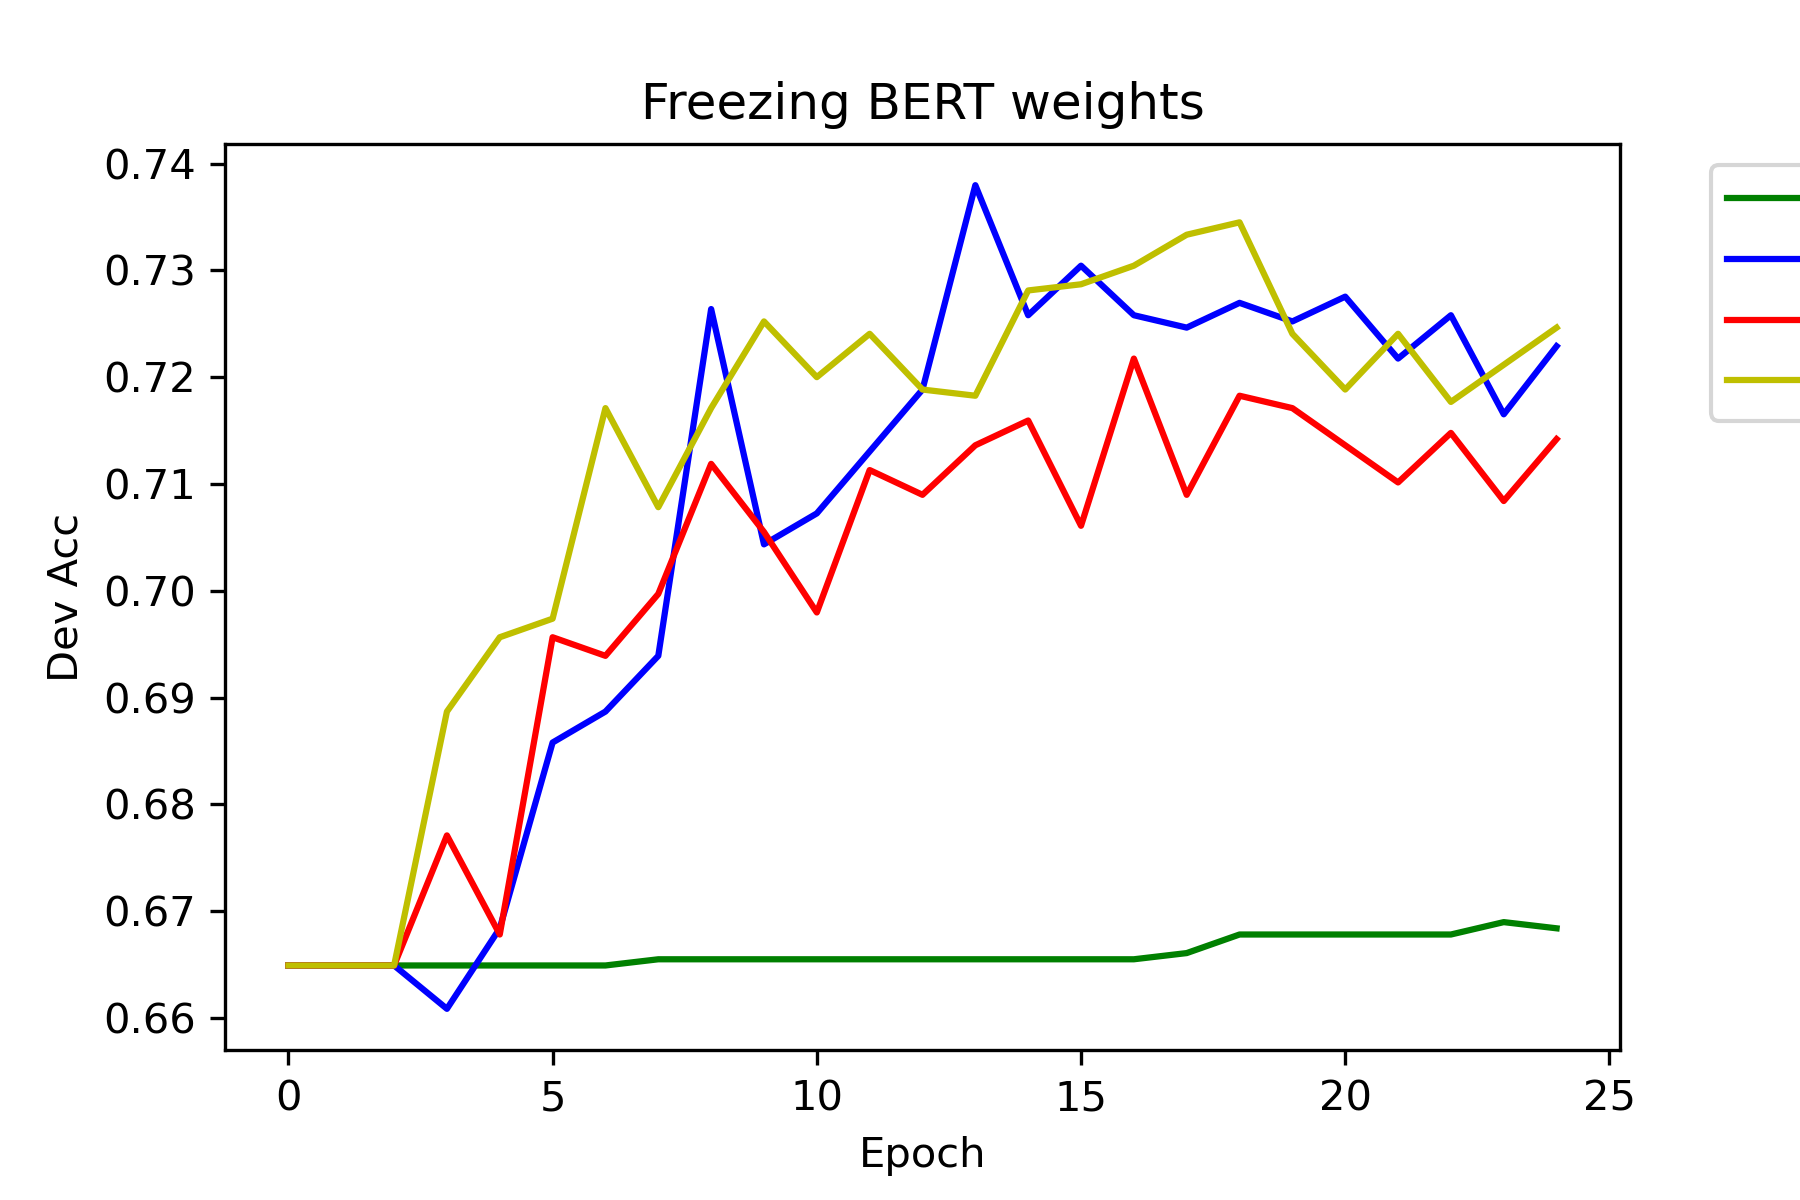
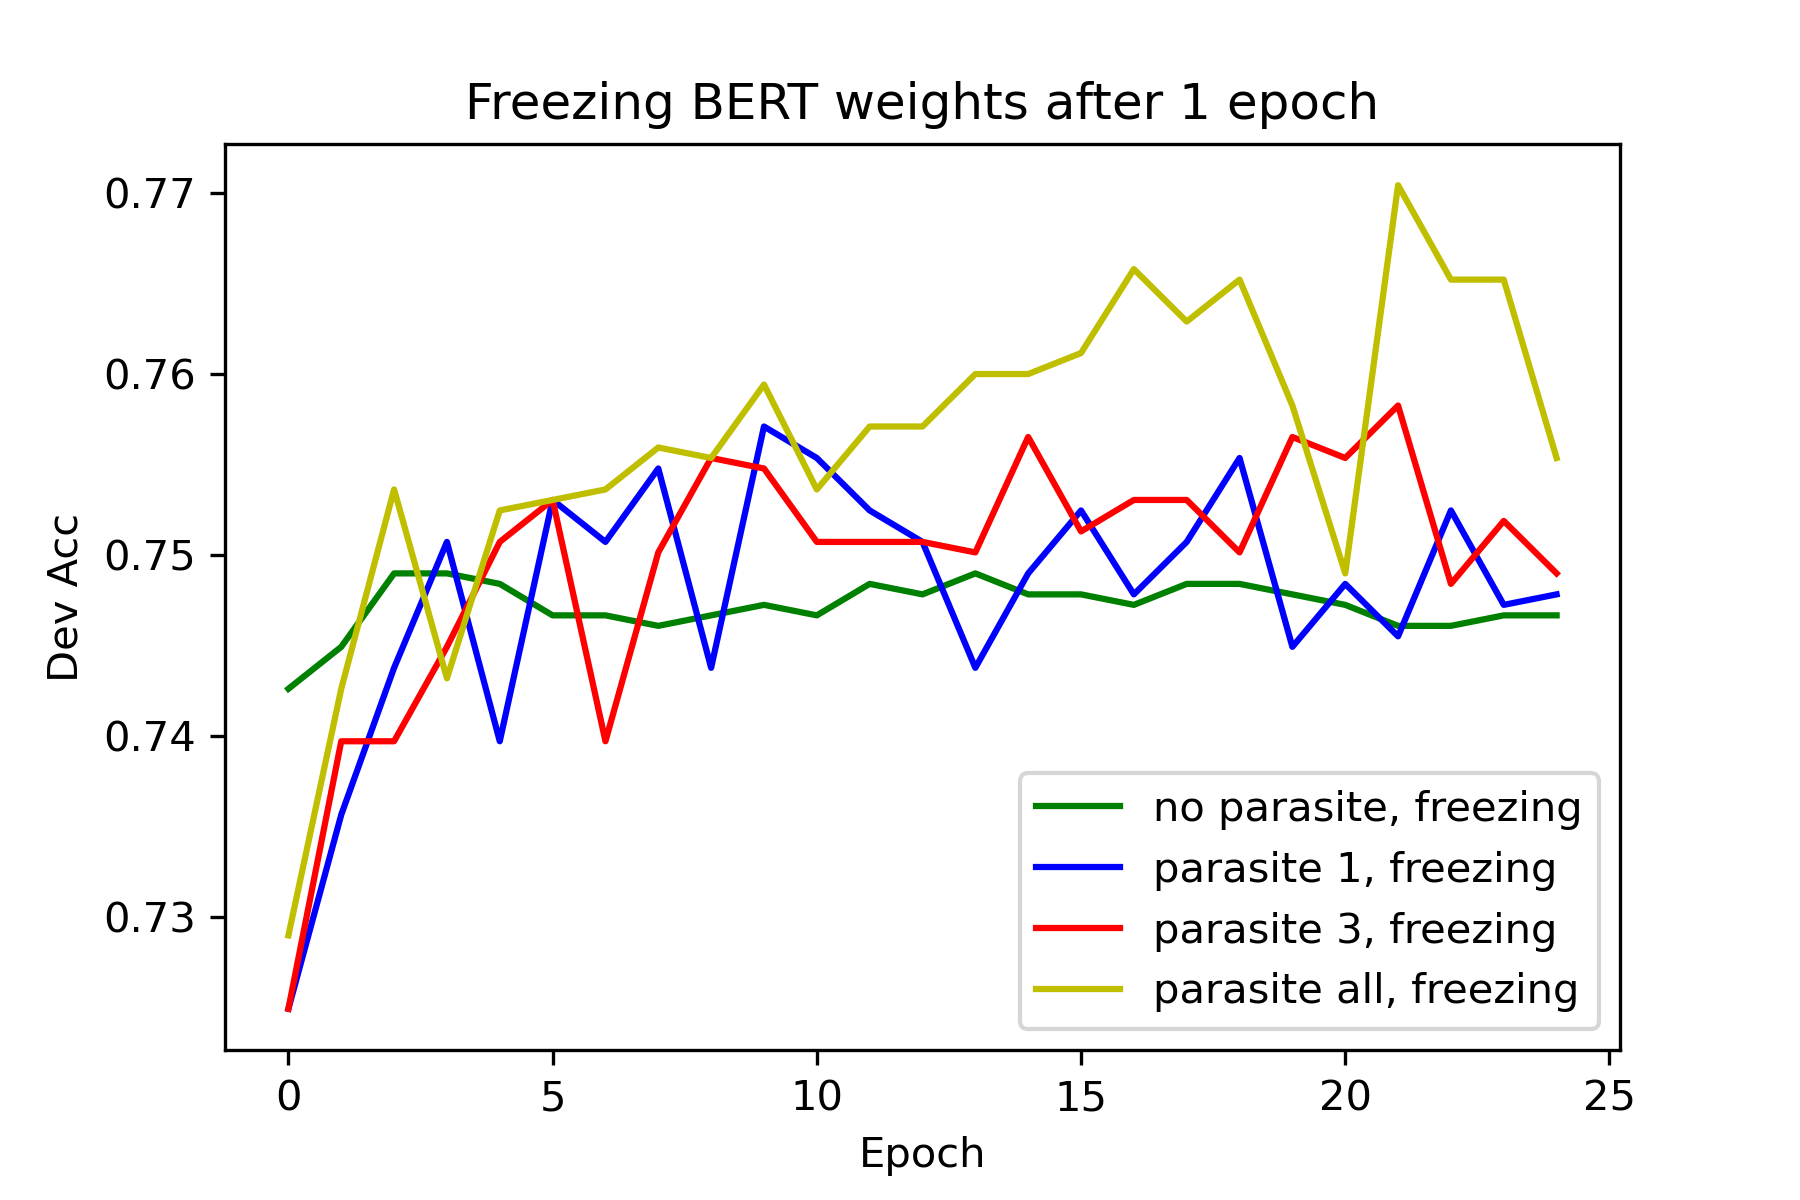
Parasite model first update

diff --git a/code/torch/utils/bert_models.py b/code/torch/utils/bert_models.py
@@ -140,7 +140,7 @@ class MultiNNLayerParasiteLearnedBERT(nn.Module):
                        bert_model = 'bert-base-uncased',
                        freeze_bert = True,
                        max_layers = 20,
-                       BERT_weights = None):
+                       BERT_model = None):
         super(MultiNNLayerParasiteLearnedBERT, self).__init__()
         self.criterion = nn.CrossEntropyLoss()
         self.max_layers = max_layers
@@ -151,8 +151,10 @@ class MultiNNLayerParasiteLearnedBERT(nn.Module):
             raise ValueError("Only bert-base-uncased is supported")
 
         #generate the BERT model
-        self.bert_model = BertModel.from_pretrained(bert_model)
-
+        if BERT_model is None:
+            self.bert_model = BertModel.from_pretrained(bert_model)
+        else:
+            self.bert_model = torch.load(BERT_model)
         #bert embeddings layer
         self.bert_embeddings = []
 
@@ -160,7 +162,7 @@ class MultiNNLayerParasiteLearnedBERT(nn.Module):
         self.encoder_layers = []
 
         for i,(name,module) in enumerate(self.bert_model.named_modules()):
-            if i == 1:
+            if name == 'embeddings' or name == 'bert_model.embeddings':
                 self.bert_embeddings.append(module)
             if 'encoder.layer.' in name and name[-1].isdigit():
                 self.encoder_layers.append(module)
@@ -205,7 +207,7 @@ class MultiNNLayerParasiteLearnedBERT(nn.Module):
 
         #run through first embedding layer
         embeddings = self.bert_embeddings[0](input_ids=input_ids,
-                                 token_type_ids=token_type_ids)
+                                             token_type_ids=token_type_ids)
 
         prev_encoder_layers = [embeddings]
 

diff --git a/code/torch/models/parasite/__main__.py b/code/torch/models/parasite/__main__.py
@@ -77,7 +77,11 @@ if __name__ == '__main__':
     num_train_optimization_steps = int(len(train_processor) / args.batch_size) * args.epochs
 
     # instantiate model and attach it to device
-    model = MultiNNLayerParasiteLearnedBERT(token_size = args.max_seq_length, freeze_bert = bool(args.freeze), max_layers = args.max_layers).to(device)
+    model = MultiNNLayerParasiteLearnedBERT(token_size = args.max_seq_length,
+                                            freeze_bert = bool(args.freeze),
+                                            max_layers = args.max_layers,
+                                            #BERT_model = r'C:\BERTVision\code\torch\model_checkpoints\bert-base-uncased\MSR\MSR_1epoch.pt',
+                                            ).to(device)
     trainable = 0
     for p in model.parameters():
         trainable += p.requires_grad
